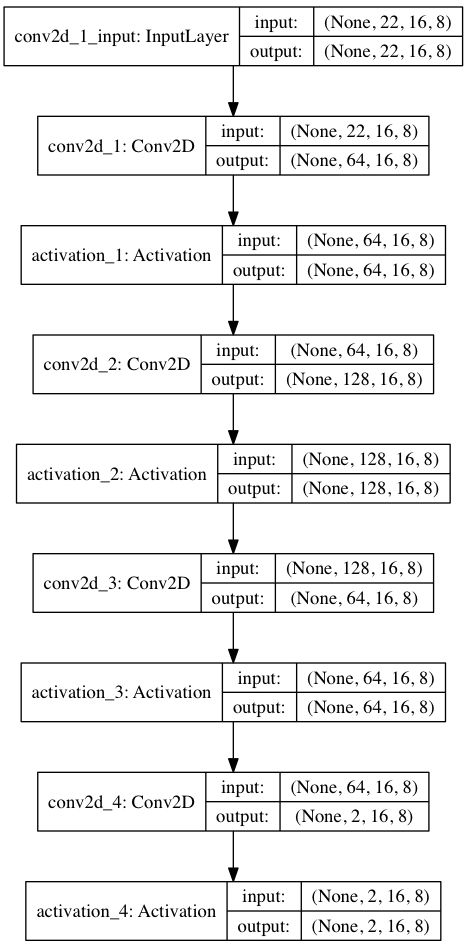
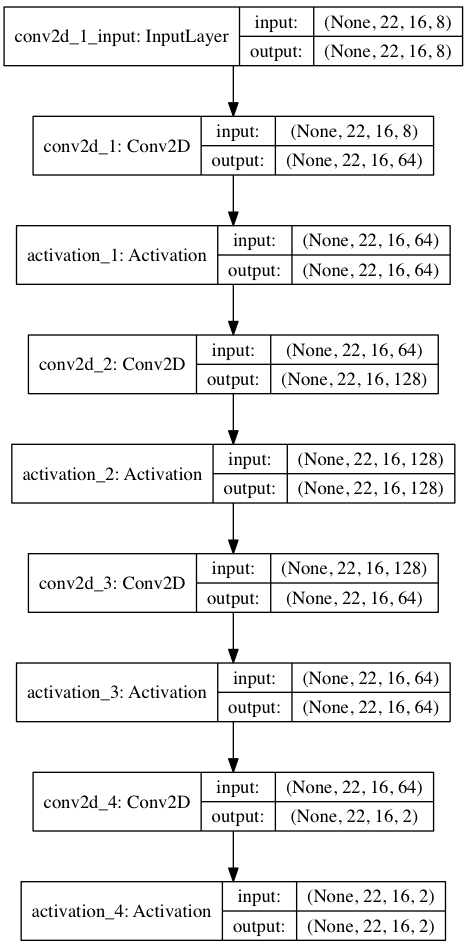
Make binCNN_CPTM which uses metadata

diff --git a/deepst/models/STConvolution.py b/deepst/models/STConvolution.py
@@ -4,7 +4,8 @@ from keras.layers import (
     Activation,
     Dense,
     Reshape,
-    Add
+    Add,
+    Merge
 )
 from keras.layers.advanced_activations import LeakyReLU
 from keras.layers.normalization import BatchNormalization
@@ -15,11 +16,12 @@ def binCNN(c_conf=(3, 2, 32, 32), p_conf=(4, 2, 32, 32), t_conf=(4, 2, 32, 32)):
     n_flow =c_conf[1]
     map_width = c_conf[2]
     map_height = c_conf[3]
+    input_shape = (n_flow*(c_conf[0]+p_conf[0]+t_conf[0]), map_width, map_height)
 
-    print('input shape is:',n_flow*(c_conf[0]+p_conf[0]+t_conf[0]), map_width, map_height)
+    print('input shape is:', input_shape)
 
     model = Sequential()
-    model.add(Convolution2D(filters=64, kernel_size=(3,3), input_shape=(n_flow*(c_conf[0]+p_conf[0]+t_conf[0]), map_width, map_height), padding='same'))
+    model.add(Convolution2D(filters=64, kernel_size=(3,3), input_shape=input_shape, padding='same'))
     model.add(Activation('relu'))
 
     model.add(Convolution2D(filters=128, kernel_size=(3,3), padding='same'))
@@ -33,6 +35,45 @@ def binCNN(c_conf=(3, 2, 32, 32), p_conf=(4, 2, 32, 32), t_conf=(4, 2, 32, 32)):
 
     return model
 
+def binCNN_CPTM(c_conf=(3, 2, 32, 32), p_conf=(4, 2, 32, 32), t_conf=(4, 2, 32, 32), metadata_dim=8):
+    n_flow =c_conf[1]
+    map_width = c_conf[2]
+    map_height = c_conf[3]
+    input_shape = (n_flow*(c_conf[0]+p_conf[0]+t_conf[0]), map_width, map_height, metadata_dim)
+
+    print('main_inputs shape is:', input_shape)
+
+    model = Sequential()
+    model.add(Convolution2D(filters=64, kernel_size=(3,3), input_shape=(n_flow*(c_conf[0]+p_conf[0]+t_conf[0]), map_width, map_height), padding='same'))
+    model.add(Activation('relu'))
+
+    model.add(Convolution2D(filters=128, kernel_size=(3,3), padding='same'))
+    model.add(Activation('relu'))
+
+    model.add(Convolution2D(filters=64, kernel_size=(3,3), padding='same'))
+    model.add(Activation('relu'))
+
+    model.add(Convolution2D(filters=n_flow, kernel_size=(3,3), padding='same'))
+    model.add(Activation('tanh'))
+    model.summary()
+    
+    metadata_processor = Sequential()
+    # metadata_processor.add(Dense(output_dim=nb_flow * map_height * map_width, input_dim=metadata_dim))
+    metadata_processor.add(Dense(units=10, input_dim=metadata_dim))
+    metadata_processor.add(Activation('relu'))
+    metadata_processor.add(Dense(units=n_flow * map_height * map_width))
+    metadata_processor.add(Activation('relu'))
+    metadata_processor.add(Reshape((n_flow, map_width, map_height)))
+
+    #model_final=Sequential()
+    #model_final.add(Merge([model, metadata_processor], mode='sum'))
+    #model_final.add(Activation('tanh'))
+
+    model_final=Sequential()
+    model_final.add(Merge([model, metadata_processor], mode='sum'))
+    model_final.add(Activation('tanh'))
+
+    return model_final
 
 
 def seqCNN(n_flow=4, seq_len=3, map_height=32, map_width=32):

diff --git a/deepst/datasets/BikeNYC.py b/deepst/datasets/BikeNYC.py
@@ -74,10 +74,10 @@ def load_data(T=24, nb_flow=2, len_closeness=None, len_period=None, len_trend=No
 
     X_ALL = np.concatenate((XC,XP,XT), axis=1)
     print('X_ALL shape is:', X_ALL.shape)
-    X_train_ALL = X_ALL[:-len_test]
-    X_test_ALL = X_ALL[-len_test:]
-    print('X_train_ALL shape is:', X_train_ALL.shape)
-    print('X_test_ALL shape is:', X_test_ALL.shape)
+    #X_train_ALL = X_ALL[:-len_test]
+    #X_test_ALL = X_ALL[-len_test:]
+    #print('X_train_ALL shape is:', X_train_ALL.shape)
+    #print('X_test_ALL shape is:', X_test_ALL.shape)
 
     Y = np.vstack(Y)
     print('len_test is',len_test)
@@ -88,6 +88,12 @@ def load_data(T=24, nb_flow=2, len_closeness=None, len_period=None, len_trend=No
     timestamp_train, timestamp_test = timestamps_Y[:-len_test], timestamps_Y[-len_test:]
     X_train = []
     X_test = []
+
+    X_train_ALL =[]
+    X_test_ALL = []
+    X_train_ALL.append(X_ALL[:-len_test])
+    X_test_ALL.append(X_ALL[-len_test:])
+
     for l, X_ in zip([len_closeness, len_period, len_trend], [XC_train, XP_train, XT_train]):
         print('l is',l)
         if l > 0:
@@ -104,6 +110,9 @@ def load_data(T=24, nb_flow=2, len_closeness=None, len_period=None, len_trend=No
         meta_feature_train, meta_feature_test = meta_feature[:-len_test], meta_feature[-len_test:]
         X_train.append(meta_feature_train)
         X_test.append(meta_feature_test)
+        X_train_ALL.append(meta_feature_train)
+        X_test_ALL.append(meta_feature_test)
+
     else:
         metadata_dim = None
     for _X in X_train:

diff --git a/test.py b/test.py
@@ -80,7 +80,9 @@ def main():
 	# data_numbers=800 will use only 800 series for trying on small data.
 	X_train_ALL, X_test_ALL, X_train, Y_train, X_test, Y_test, mmn, external_dim, timestamp_train, timestamp_test = BikeNYC.load_data(
 	    T=T, nb_flow=nb_flow, len_closeness=len_closeness, len_period=len_period, len_trend=len_trend, len_test=len_test,
-	    preprocess_name='preprocessing.pkl', meta_data=True, data_numbers=1500)
+	    preprocess_name='preprocessing.pkl', meta_data=False, data_numbers=None)
+
+	
 
 	print("\n days (test): ", [v[:8] for v in timestamp_test[0::T]])
 

diff --git a/scripts/papers/AAAI17/BikeNYC/exptBikeNYC.py b/scripts/papers/AAAI17/BikeNYC/exptBikeNYC.py
@@ -95,6 +95,10 @@ def main():
 
     print('=' * 10)
     print("training model...")
+
+    print('X_train_ALL shape is:', X_train_ALL.shape)
+    print('X_test_ALL shape is:', X_test_ALL.shape)
+    
     history = model.fit(X_train_ALL, Y_train,
                         nb_epoch=nb_epoch,
                         batch_size=batch_size,
